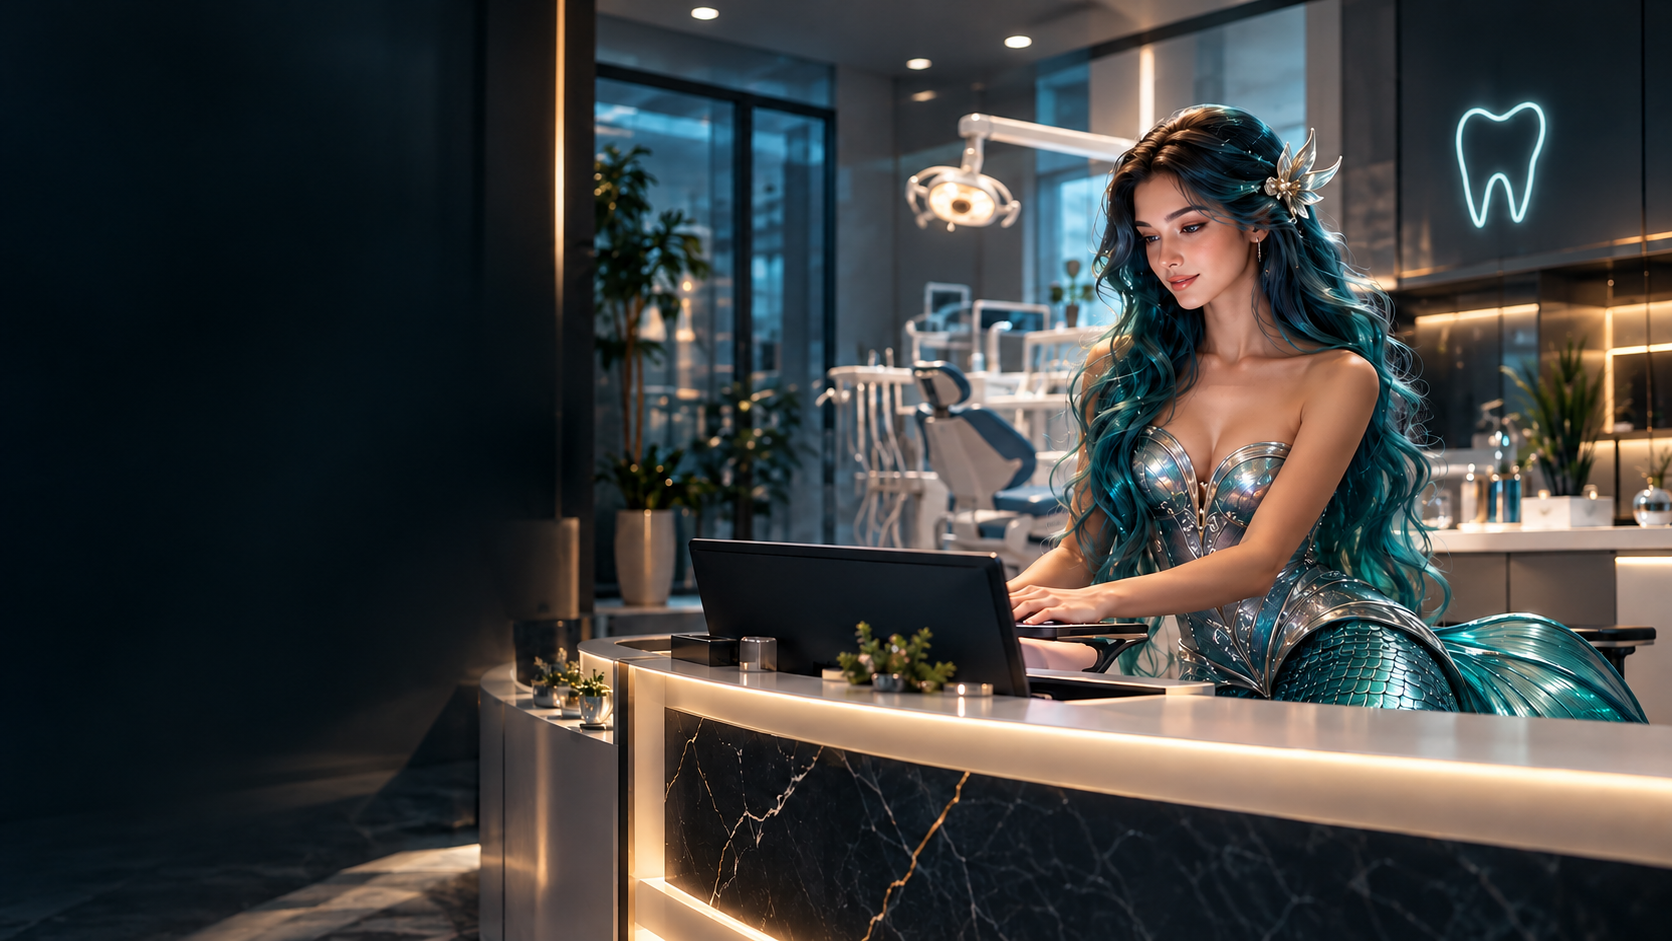
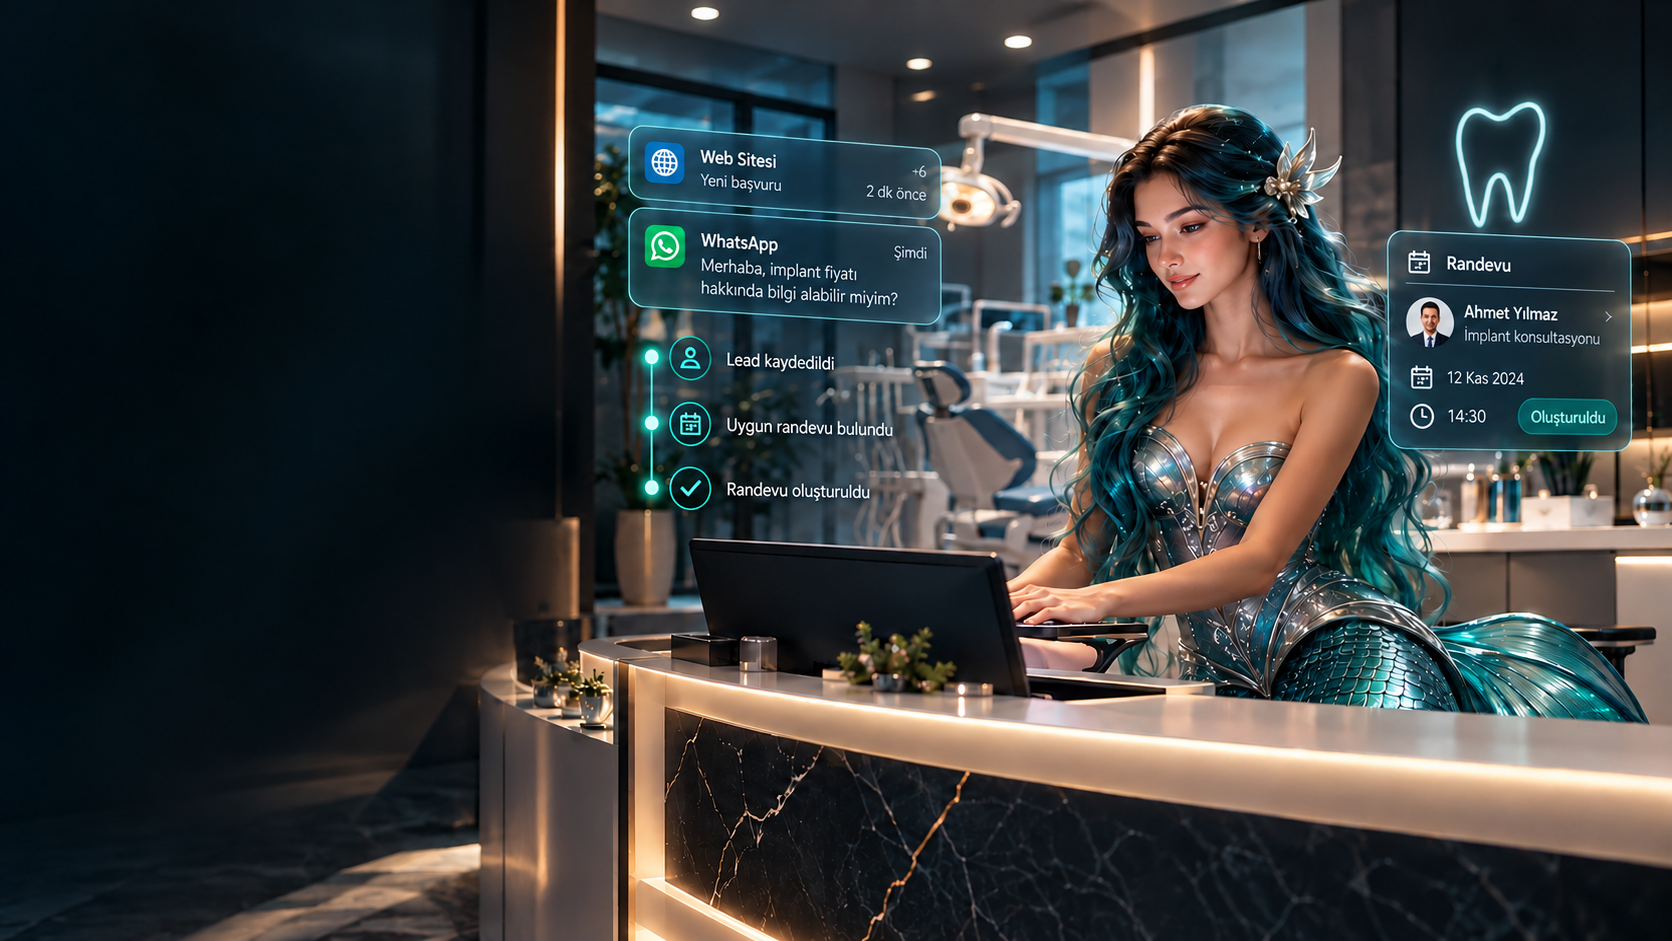
Use baked hero artwork composition

diff --git a/src/components/Hero.tsx b/src/components/Hero.tsx
@@ -1,16 +1,4 @@
-import {
-  ArrowRight,
-  BarChart3,
-  CalendarCheck2,
-  CheckCircle2,
-  Clock3,
-  Globe2,
-  MessageCircle,
-  UserRound,
-  UsersRound,
-  Zap,
-} from 'lucide-react';
-import type { CSSProperties } from 'react';
+import { ArrowRight, BarChart3, UsersRound, Zap } from 'lucide-react';
 import { useLanguage } from '@/lib/i18n';
 
 interface HeroProps {
@@ -22,7 +10,7 @@ export function Hero({ onCTAClick }: HeroProps) {
   const hero = copy.hero;
 
   return (
-    <section id="anasayfa" className="hero-section relative overflow-hidden">
+    <section id="anasayfa" aria-labelledby="hero-title" className="hero-section relative overflow-hidden">
       <div className="hero-section__background pointer-events-none absolute inset-0" aria-hidden="true" />
       <div className="hero-section__shade pointer-events-none absolute inset-0" aria-hidden="true" />
       <div className="hero-noise pointer-events-none absolute inset-0" aria-hidden="true" />
@@ -36,7 +24,7 @@ export function Hero({ onCTAClick }: HeroProps) {
               {hero.pilotBadge}
             </span>
 
-            <h1 className="hero-editorial-heading mt-7 max-w-[44rem] font-display text-[clamp(3.4rem,5.6vw,5.5rem)] font-semibold leading-[0.98] tracking-[-0.065em] text-snow-50">
+            <h1 id="hero-title" className="hero-editorial-heading mt-7 max-w-[44rem] font-display text-[clamp(3.4rem,5.6vw,5.5rem)] font-semibold leading-[0.98] tracking-[-0.065em] text-snow-50">
               {hero.headline.split('\n').map((line) => (
                 <span key={line} className="block">
                   {line}
@@ -81,71 +69,6 @@ export function Hero({ onCTAClick }: HeroProps) {
                 );
               })}
             </div>
-          </div>
-
-          <div className="hero-visual" aria-label={hero.operational.aria}>
-            <div className="hero-visual__halo" aria-hidden="true" />
-
-            <article
-              data-reveal
-              className="hero-overlay-card hero-channel hero-channel--website reveal"
-              style={{ '--reveal-delay': '300ms' } as CSSProperties}
-            >
-              <span className="hero-channel__icon hero-channel__icon--website"><Globe2 aria-hidden="true" /></span>
-              <span className="hero-channel__copy">
-                <strong>{hero.operational.website.title}</strong>
-                <small>{hero.operational.website.subtitle}</small>
-              </span>
-              <time>{hero.operational.website.time}</time>
-            </article>
-
-            <article
-              data-reveal
-              className="hero-overlay-card hero-channel hero-channel--whatsapp reveal"
-              style={{ '--reveal-delay': '450ms' } as CSSProperties}
-            >
-              <span className="hero-channel__icon hero-channel__icon--whatsapp"><MessageCircle aria-hidden="true" /></span>
-              <span className="hero-channel__copy">
-                <strong>{hero.operational.whatsapp.title}</strong>
-                <small>{hero.operational.whatsapp.subtitle}</small>
-              </span>
-              <time>{hero.operational.whatsapp.time}</time>
-            </article>
-
-            <div className="hero-timeline" role="list" aria-label={hero.operational.timelineLabel}>
-              {hero.operational.timeline.map((item, index) => {
-                const Icon = index === 0 ? UserRound : index === 1 ? CalendarCheck2 : CheckCircle2;
-                return (
-                  <div
-                    key={item}
-                    data-reveal
-                    className="hero-timeline__step reveal"
-                    style={{ '--reveal-delay': `${650 + index * 200}ms` } as CSSProperties}
-                    role="listitem"
-                  >
-                    <span className="hero-timeline__node"><Icon aria-hidden="true" /></span>
-                    <span>{item}</span>
-                  </div>
-                );
-              })}
-            </div>
-
-            <article
-              data-reveal
-              className="hero-overlay-card hero-appointment reveal"
-              style={{ '--reveal-delay': '1050ms' } as CSSProperties}
-            >
-              <div className="hero-appointment__heading">
-                <span className="hero-channel__icon hero-channel__icon--appointment"><CalendarCheck2 aria-hidden="true" /></span>
-                <strong>{hero.operational.appointment.title}</strong>
-                <span className="hero-appointment__status">{hero.operational.appointment.status}</span>
-              </div>
-              <div className="hero-appointment__body">
-                <span>{hero.operational.appointment.service}</span>
-                <strong>{hero.operational.appointment.day}</strong>
-                <span className="hero-appointment__time"><Clock3 aria-hidden="true" /> {hero.operational.appointment.time}</span>
-              </div>
-            </article>
           </div>
         </div>
       </div>

diff --git a/src/index.css b/src/index.css
@@ -159,13 +159,13 @@
   }
 
   .hero-layout {
-    @apply grid items-center gap-8 lg:grid-cols-[minmax(0,0.96fr)_minmax(0,1.04fr)];
+    @apply flex items-center;
     min-height: min(56rem, 100svh);
     padding-top: 4.5rem;
   }
 
   .hero-copy {
-    @apply relative z-10 max-w-[44rem] py-20 lg:py-24;
+    @apply relative z-10 w-full max-w-[44rem] py-20 lg:py-24;
   }
 
   .hero-kicker {
@@ -204,133 +204,6 @@
 
   .hero-benefit__icon svg {
     @apply h-4 w-4;
-  }
-
-  .hero-visual {
-    @apply relative z-10 min-w-0;
-    min-height: 41rem;
-  }
-
-  .hero-visual__halo {
-    @apply pointer-events-none absolute;
-    inset: 11% 5% 6% 7%;
-    background: radial-gradient(circle at 60% 45%, rgba(56, 204, 194, 0.1), transparent 55%);
-  }
-
-  .hero-overlay-card {
-    @apply absolute border border-teal-200/25 shadow-[0_12px_28px_rgba(0,0,0,0.2)];
-    background: rgba(8, 22, 26, 0.78);
-    backdrop-filter: blur(5px);
-  }
-
-  .hero-channel {
-    @apply flex items-center gap-2.5 rounded-[0.75rem] px-3 py-2.5 text-snow-50;
-    width: min(18rem, 44%);
-  }
-
-  .hero-channel--website {
-    left: -7%;
-    top: 27%;
-  }
-
-  .hero-channel--whatsapp {
-    left: -7%;
-    top: 42%;
-    padding-top: 0.7rem;
-    padding-bottom: 0.7rem;
-  }
-
-  .hero-channel__icon {
-    @apply inline-flex h-9 w-9 shrink-0 items-center justify-center rounded-full border;
-  }
-
-  .hero-channel__icon svg {
-    @apply h-4 w-4;
-  }
-
-  .hero-channel__icon--website {
-    @apply border-sky-300/50 bg-sky-400/15 text-sky-200;
-  }
-
-  .hero-channel__icon--whatsapp {
-    @apply border-emerald-300/55 bg-emerald-400/15 text-emerald-200;
-  }
-
-  .hero-channel__icon--appointment {
-    @apply h-8 w-8 border-teal-300/45 bg-teal-400/15 text-teal-100;
-  }
-
-  .hero-channel__copy {
-    @apply min-w-0 flex-1;
-  }
-
-  .hero-channel__copy strong {
-    @apply block truncate font-display text-sm font-medium;
-  }
-
-  .hero-channel__copy small {
-    @apply mt-0.5 block max-w-[15rem] text-xs leading-relaxed text-snow-300;
-  }
-
-  .hero-channel time {
-    @apply shrink-0 self-start pt-1 text-[0.65rem] text-snow-400;
-  }
-
-  .hero-timeline {
-    @apply absolute bottom-[11%] left-[-4%] flex w-[15rem] flex-col gap-3;
-  }
-
-  .hero-timeline__step {
-    @apply relative grid grid-cols-[1.5rem_minmax(0,1fr)] items-center gap-3 text-sm text-snow-100;
-  }
-
-  .hero-timeline__step:not(:last-child)::after {
-    content: '';
-    @apply absolute left-[0.7rem] top-7 h-5 w-px bg-teal-300/55;
-  }
-
-  .hero-timeline__node {
-    @apply relative z-10 inline-flex h-6 w-6 items-center justify-center rounded-full border border-teal-300/70 bg-navy-950/80 text-teal-200;
-  }
-
-  .hero-timeline__node svg {
-    @apply h-3.5 w-3.5;
-  }
-
-  .hero-appointment {
-    @apply right-[4%] top-[40%] w-[15rem] rounded-[0.85rem] p-3.5 text-snow-50;
-  }
-
-  .hero-appointment__heading {
-    @apply grid grid-cols-[auto_minmax(0,1fr)_auto] items-center gap-2 border-b border-snow-100/20 pb-3;
-  }
-
-  .hero-appointment__heading strong {
-    @apply font-display text-sm font-medium;
-  }
-
-  .hero-appointment__status {
-    @apply rounded-full border border-teal-300/45 bg-teal-400/15 px-2 py-1 text-[0.6rem] text-teal-100;
-  }
-
-  .hero-appointment__body {
-    @apply grid grid-cols-[minmax(0,1fr)_auto] gap-x-3 gap-y-2 pt-3 text-sm;
-  }
-
-  .hero-appointment__body > span:first-child {
-    @apply col-span-2 text-snow-200;
-  }
-
-  .hero-appointment__body strong {
-    @apply font-display font-medium text-snow-50;
-  }
-
-  .hero-appointment__time {
-    @apply inline-flex items-center gap-1 text-snow-300;
-  }
-
-  .hero-appointment__time svg {
-    @apply h-3.5 w-3.5 text-teal-200;
   }
 
   .value-marquee {
@@ -945,34 +818,12 @@
 
   @media (max-width: 1023px) {
     .hero-layout {
-      grid-template-columns: minmax(0, 1fr);
       min-height: auto;
       padding-top: 4.5rem;
     }
 
     .hero-copy {
       max-width: 48rem;
-    }
-
-    .hero-visual {
-      min-height: 37rem;
-      margin-top: -1rem;
-    }
-
-    .hero-channel--website {
-      left: 11%;
-    }
-
-    .hero-channel--whatsapp {
-      left: 11%;
-    }
-
-    .hero-timeline {
-      left: 12%;
-    }
-
-    .hero-appointment {
-      right: 8%;
     }
   }
 
@@ -1020,37 +871,6 @@
       width: 0.9rem;
     }
 
-    .hero-visual {
-      min-height: 31rem;
-      margin-top: 2rem;
-    }
-
-    .hero-channel--website,
-    .hero-appointment {
-      display: none;
-    }
-
-    .hero-channel--whatsapp {
-      left: 0;
-      top: 4%;
-      width: min(20rem, calc(100% - 1rem));
-    }
-
-    .hero-channel__copy small {
-      max-width: 12rem;
-    }
-
-    .hero-timeline {
-      bottom: auto;
-      left: 0;
-      top: 46%;
-      width: min(15rem, calc(100% - 1rem));
-      gap: 0.7rem;
-    }
-
-    .hero-timeline__step {
-      font-size: 0.78rem;
-    }
   }
 
   @media (min-width: 768px) {
